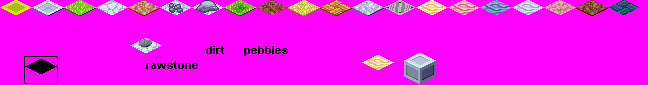
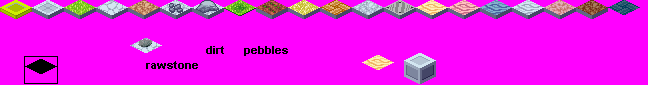
Started the foundation for thick floors.

Changed region(s): [[0.0, 0.0941, 0.9568, 0.2118]]

diff --git a/GUI.cpp b/GUI.cpp
@@ -74,23 +74,26 @@ void DrawCurrentLevelOutline(BITMAP* target, bool backPart){
 	Crd2D p2 = WorldBlockToScreen(x, y + sizey , z);
 	Crd2D p3 = WorldBlockToScreen(x + sizex , y, z);
 	Crd2D p4 = WorldBlockToScreen(x + sizex , y + sizey , z);
-
+  p1.y += FLOORHEIGHT;
+  p2.y += FLOORHEIGHT;
+  p3.y += FLOORHEIGHT;
+  p4.y += FLOORHEIGHT;
 	if(backPart){
-		line(target, p1.x, p1.y, p1.x, p1.y-WALLHEIGHT, COLOR_SEGMENTOUTLINE);
+		line(target, p1.x, p1.y, p1.x, p1.y-BLOCKHEIGHT, COLOR_SEGMENTOUTLINE);
 		line(target, p1.x, p1.y, p2.x, p2.y, COLOR_SEGMENTOUTLINE);
-		line(target, p1.x, p1.y-WALLHEIGHT, p2.x, p2.y-WALLHEIGHT, COLOR_SEGMENTOUTLINE);
-		line(target, p2.x, p2.y, p2.x, p2.y-WALLHEIGHT, COLOR_SEGMENTOUTLINE);
+		line(target, p1.x, p1.y-BLOCKHEIGHT, p2.x, p2.y-BLOCKHEIGHT, COLOR_SEGMENTOUTLINE);
+		line(target, p2.x, p2.y, p2.x, p2.y-BLOCKHEIGHT, COLOR_SEGMENTOUTLINE);
 
 		line(target, p1.x, p1.y, p3.x, p3.y, COLOR_SEGMENTOUTLINE);
-		line(target, p1.x, p1.y-WALLHEIGHT, p3.x, p3.y-WALLHEIGHT, COLOR_SEGMENTOUTLINE);
-		line(target, p3.x, p3.y, p3.x, p3.y-WALLHEIGHT, COLOR_SEGMENTOUTLINE);
+		line(target, p1.x, p1.y-BLOCKHEIGHT, p3.x, p3.y-BLOCKHEIGHT, COLOR_SEGMENTOUTLINE);
+		line(target, p3.x, p3.y, p3.x, p3.y-BLOCKHEIGHT, COLOR_SEGMENTOUTLINE);
 	}else{
-		line(target, p4.x, p4.y, p4.x, p4.y-WALLHEIGHT, COLOR_SEGMENTOUTLINE);
+		line(target, p4.x, p4.y, p4.x, p4.y-BLOCKHEIGHT, COLOR_SEGMENTOUTLINE);
 		line(target, p4.x, p4.y, p2.x, p2.y, COLOR_SEGMENTOUTLINE);
-		line(target, p4.x, p4.y-WALLHEIGHT, p2.x, p2.y-WALLHEIGHT, COLOR_SEGMENTOUTLINE);
+		line(target, p4.x, p4.y-BLOCKHEIGHT, p2.x, p2.y-BLOCKHEIGHT, COLOR_SEGMENTOUTLINE);
 
 		line(target, p4.x, p4.y, p3.x, p3.y, COLOR_SEGMENTOUTLINE);
-		line(target, p4.x, p4.y-WALLHEIGHT, p3.x, p3.y-WALLHEIGHT, COLOR_SEGMENTOUTLINE);
+		line(target, p4.x, p4.y-BLOCKHEIGHT, p3.x, p3.y-BLOCKHEIGHT, COLOR_SEGMENTOUTLINE);
 	}
 }
 

diff --git a/MapLoading.cpp b/MapLoading.cpp
@@ -356,12 +356,15 @@ TMR2_STOP;
 
 	return segment;
 }
+
+
+
 //TODO: dont need double ref anymore
-bool ConnectDFAPI(API** pDF){
-	if(!(*pDF)->Attach() || !(*pDF)->InitMap())
+bool ConnectDFAPI(API* pDF){
+	if(!pDF->Attach() || !pDF->InitMap())
     return false;
 
-  return (*pDF)->isAttached();
+  return pDF->isAttached();
 }
 
 void DisconnectFromDF(){
@@ -384,7 +387,7 @@ void reloadDisplayedSegment(){
   //create handle to dfHack API
   if(pDFApiHandle == 0){
     pDFApiHandle = new API("Memory.xml");
-    if( ConnectDFAPI( &pDFApiHandle ) == false ){
+    if( ConnectDFAPI( pDFApiHandle ) == false ){
       delete( pDFApiHandle );
       pDFApiHandle = 0;
     }
@@ -401,5 +404,10 @@ void reloadDisplayedSegment(){
   API& DF = *pDFApiHandle;
 	viewedSegment = ReadMapSegment(DF, DisplayedSegmentX, DisplayedSegmentY, DisplayedSegmentZ,
 		                config.segmentSize.x, config.segmentSize.y, segmentHeight);
+  bool res = DF.InitViewAndCursor();
+  if(res){
+    int x,y,z;
+    res = DF.getViewCoords( x, y, z );
+  }
   TMR1_STOP;
 }

diff --git a/Block.cpp b/Block.cpp
@@ -49,15 +49,15 @@ void Block::Draw(BITMAP* target){
   correctBlockForRotation( drawx, drawy, drawz);
 	drawx *= TILEWIDTH;
 	drawy *= TILEWIDTH;
-	pointToScreen((int*)&drawx, (int*)&drawy, drawz * WALLHEIGHT);
+	pointToScreen((int*)&drawx, (int*)&drawy, drawz * BLOCKHEIGHT);
 	drawx -= TILEWIDTH>>1;
 
   int tileBorderColor = makecol(85,85,85);
 
 	//Draw Floor
-	if(floorType > 0){
+	if(floorType > 0 || wallType > 0){
     sheetOffsetX = TILEWIDTH * GetFloorSpriteMap(floorType, materialIndex);
-		masked_blit(IMGFloorSheet, target, sheetOffsetX,0, drawx,drawy, TILEWIDTH,TILEHEIGHT);
+		masked_blit(IMGFloorSheet, target, sheetOffsetX,0, drawx,drawy, TILEWIDTH,TILEHEIGHT + FLOORHEIGHT);
 
     //Northern frame
     if(this->depthBorderNorth)
